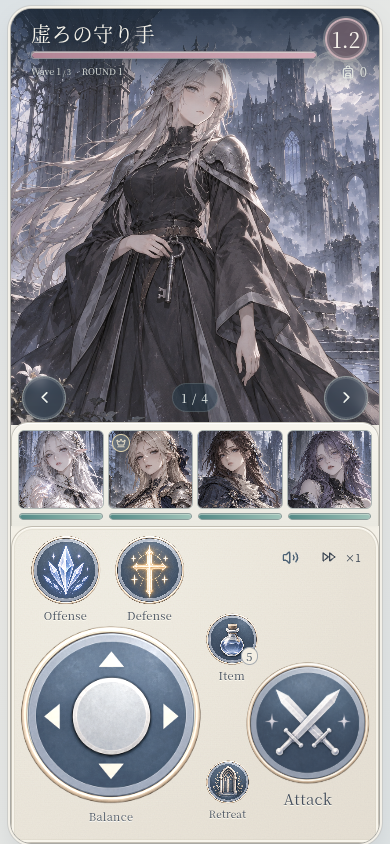
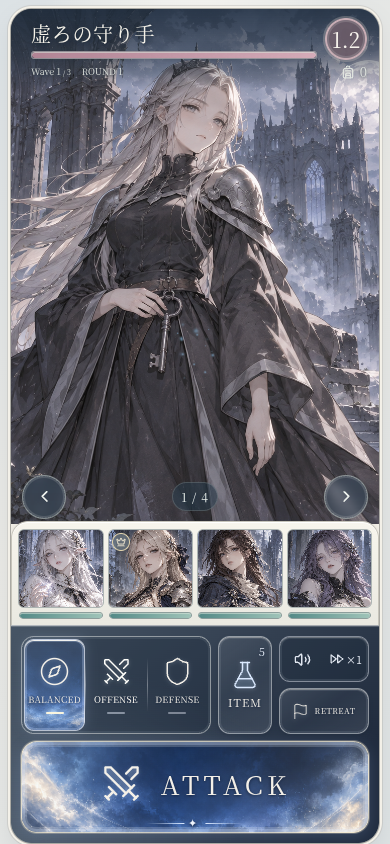
feat: redesign battle commands as moonlit glass palette

diff --git a/src/ui/battle-control-pad.css b/src/ui/battle-control-pad.css
@@ -1,54 +1,60 @@
+/* Moonlit glass and fine silver edges follow modern-command-palette.png. */
 .battle-layout .battle-control-pad {
-  position: relative;
   margin: 0;
-  padding: 8px 8px 20px;
-  border: 1px solid #c4bfb4;
-  border-radius: 22px 22px 0 0;
-  background: var(--paper-grain,none),radial-gradient(ellipse at 30% 10%,#faf7ee77,transparent 65%),linear-gradient(135deg,#f2eee4,#e8e2d6);
-  box-shadow: inset 0 1px 0 #fffdf7,inset 0 0 0 2px #f7f4eb,inset 0 0 0 3px #d7d1c466;
+  padding: 10px;
+  border-top: 1px solid #e2e4e5b3;
+  background: radial-gradient(ellipse at 0 100%,#9cabb64d,transparent 60%),linear-gradient(145deg,#475565,#202b3d 78%);
+  box-shadow: inset 0 1px 0 #ffffff30;
+  color: #f1f0e8;
 }
-.battle-control-pad__toolbar { position: absolute; z-index: 2; top: 8px; right: 8px; display: flex; justify-content: flex-end; align-items: center; min-height: 44px; padding: 0; }
-.battle-control-pad__toolbar .toolbar { gap: 2px; }
-.battle-control-pad__toolbar .button { min-height: 44px; min-width: 44px; padding: 5px 8px; border-color: transparent; background: transparent; box-shadow: none; font-size: 10px; }
-.battle-control-pad__board { position: relative; width: 100%; aspect-ratio: 1.22; }
-.battle-control-pad__strategies { display: contents; }
-.battle-layout .battle-control-pad .framed-control {
-  position: absolute;
-  display: block;
-  height: auto;
-  aspect-ratio: 1;
-  min-width: 44px;
+.battle-control-pad__board { display: grid; grid-template-columns: minmax(0,3fr) minmax(52px,.85fr) minmax(90px,1.1fr); gap: 7px; }
+.battle-control-pad__strategies { display: grid; grid-template-columns: repeat(3,minmax(0,1fr)); min-width: 0; padding: 2px; border: 1px solid #d2d5d59c; border-radius: 13px; background: #1723354d; box-shadow: inset 0 0 0 2px #dde5eb16; }
+.battle-layout .battle-control-pad .moon-command {
+  position: relative;
+  min-width: 0;
   min-height: 44px;
-  padding: 0;
-  border: 0;
-  border-radius: 50%;
-  background: transparent;
-  box-shadow: none;
-  color: #f6f2e9;
-  overflow: visible;
-  isolation: isolate;
-  transition: filter .16s,transform .16s;
+  padding: 8px 4px;
+  gap: 7px;
+  border: 1px solid #d5d9dc91;
+  border-radius: 12px;
+  background: linear-gradient(145deg,#e4e8ef17,#b2bec708 48%,#dbe1ea1c);
+  box-shadow: inset 0 0 0 2px #d9e0e91a,inset 0 1px 0 #fff7e654,0 2px 5px #101a2a33;
+  color: #f4f0e8;
+  font-family: var(--font-display);
+  font-weight: 400;
+  text-shadow: 0 1px 3px #15233d;
+  transition: filter .18s,box-shadow .18s;
 }
-.battle-layout .battle-control-pad .framed-control:hover:not(:disabled) { background: transparent; border: 0; box-shadow: none; filter: brightness(1.07); }
-.battle-layout .battle-control-pad .framed-control:active:not(:disabled) { transform: scale(.97); }
-.battle-layout .battle-control-pad .framed-control:disabled { opacity: .52; }
-.battle-layout .battle-control-pad .framed-control.is-selected { background: transparent; box-shadow: none; filter: brightness(1.08); }
-.battle-layout .battle-control-pad .framed-control.is-selected::after { content: ''; position: absolute; inset: 4%; border: 1px solid #f4f8e9bb; border-radius: 50%; pointer-events: none; }
-.battle-layout .battle-control-pad .framed-control > .atlas-icon { position: absolute; inset: 0; width: 100%; height: 100%; border-radius: 50%; pointer-events: none; z-index: -1; }
-.battle-control-pad .framed-control--balanced { width: 52%; left: 0; top: 31%; }
-.battle-control-pad .framed-control--aggressive { width: 20%; left: 3%; top: 0; }
-.battle-control-pad .framed-control--survival { width: 20%; left: 27%; top: 0; }
-.battle-control-pad .framed-control--advance { width: 35.5%; right: 0; top: 44%; }
-.battle-control-pad .framed-control--potion { width: 15%; left: 53%; top: 27%; }
-.battle-control-pad .framed-control--retreat { width: 9%; left: 53%; bottom: 18px; }
-.framed-control__label { position: absolute; left: 50%; top: calc(100% + 3px); transform: translateX(-50%); color: #444e5c; font-family: var(--font-display); font-size: clamp(11px,2.8vw,16px); font-weight: 400; line-height: 1.3; text-align: center; text-shadow: 0 1px 0 #fffdf2; white-space: nowrap; pointer-events: none; }
-.framed-control--advance .framed-control__label { font-size: clamp(15px,3.5vw,22px); }
-.framed-control--retreat .framed-control__label { font-size: 10px; }
-.framed-control__count { position: absolute; right: 0; bottom: 0; min-width: 1.55em; padding: 2px 4px; border-radius: 12px; background: #f3eee3; color: #435160; border: 1px solid #a6abb0; font-size: 11px; line-height: 1.1; font-family: var(--font-display); text-shadow: none; }
+.battle-layout .battle-control-pad .moon-command:hover:not(:disabled) { background-color: #9fb9d326; filter: brightness(1.15); }
+.battle-layout .battle-control-pad .moon-command:active:not(:disabled) { filter: brightness(.95); transform: none; }
+.battle-layout .battle-control-pad .moon-command:focus-visible { outline: 2px solid #f8e8be; outline-offset: -3px; }
+.battle-layout .battle-control-pad .moon-command:disabled { opacity: .45; }
+.battle-layout .battle-control-pad .moon-command > svg { flex-shrink: 0; stroke-width: 1.15; filter: drop-shadow(0 1px 2px #d7e8ff45); }
+.battle-layout .battle-control-pad .moon-command--strategy { flex-direction: column; gap: 6px; min-height: 92px; border-color: transparent; border-radius: 10px; background: transparent; box-shadow: none; font-size: 9px; letter-spacing: .035em; padding-inline: 1px; }
+.moon-command--strategy + .moon-command--strategy::before { content: ''; position: absolute; left: -1px; top: 20%; bottom: 20%; width: 1px; background: linear-gradient(transparent,#d2d5da70,transparent); }
+.battle-layout .battle-control-pad .moon-command--strategy > svg { width: 31px; height: 31px; }
+.battle-layout .battle-control-pad .moon-command.is-selected { border-color: #e3e8f2bd; background: linear-gradient(145deg,#b8d3f34d,#6e94c36b),var(--command-moonlight) center / cover; box-shadow: inset 0 0 0 2px #cde1ff42,inset 0 1px 0 #fff8e9,0 0 12px #bdd6ff33; }
+.moon-command__marker { width: 18px; height: 2px; background: #c8cdda85; border-radius: 2px; }
+.is-selected > .moon-command__marker { background: #faf5df; box-shadow: 0 0 6px #d3e9ff; }
+.battle-layout .battle-control-pad .moon-command--potion { display: flex; flex-direction: column; align-items: center; justify-content: center; gap: 4px; font-size: 11px; letter-spacing: .1em; }
+.battle-layout .battle-control-pad .moon-command--potion > svg { width: 30px; height: 30px; color: #dceaff; fill: #9fc8f126; }
+.moon-command__count { position: absolute; right: 6px; top: 6px; font-size: 11px; letter-spacing: 0; color: #dee6f0; }
+.battle-control-pad__utilities { display: flex; flex-direction: column; gap: 6px; min-width: 0; }
+.battle-control-pad__toolbar { display: flex; flex-wrap: wrap; justify-content: center; align-items: center; border: 1px solid #cbd0db91; border-radius: 11px; background: #14203145; box-shadow: inset 0 0 0 2px #d9e0e91a,inset 0 1px 0 #fff7e640; }
+.battle-control-pad__toolbar .button { flex: 1; min-width: 44px; min-height: 44px; padding: 3px; gap: 2px; border: 0; border-radius: 8px; background: transparent; box-shadow: none; color: #e0e6ef; font-size: 10px; }
+.battle-control-pad__toolbar .button:hover:not(:disabled) { background: #b8d2f02b; }
+.battle-layout .battle-control-pad .moon-command--retreat { flex: 1; gap: 5px; padding: 5px 2px; font-size: 8px; letter-spacing: .06em; }
+.battle-layout .battle-control-pad .moon-command--retreat > svg { width: 17px; height: 17px; }
+.battle-layout .battle-control-pad .moon-command--advance { grid-column: 1 / -1; min-height: 92px; overflow: hidden; border-radius: 16px; border-color: #f0e7cdcc; gap: 18px; padding: 15px 10px 22px; background: linear-gradient(100deg,#dbe3eb33,#7c9fd21a 45%,#eee3c830),var(--command-moonlight) center 58% / cover; box-shadow: inset 0 0 0 3px #d5e5ff40,inset 0 0 0 5px #e3e7ec38,0 0 0 1px #ebdfc94d,0 4px 17px #9dbff833; font-size: clamp(26px,6vw,40px); letter-spacing: .16em; line-height: 1.2; }
+.battle-layout .battle-control-pad .moon-command--advance > svg { width: 43px; height: 43px; stroke-width: 1.3; fill: #c9ddf42b; }
+.moon-command__flourish { position: absolute; bottom: 4px; left: 50%; transform: translateX(-50%); font-size: 11px; line-height: 1; color: #eff4fc; }
+.moon-command__flourish::before,.moon-command__flourish::after { content: ''; position: absolute; top: 50%; width: 38px; height: 1px; background: linear-gradient(90deg,transparent,#d9e8ff); }
+.moon-command__flourish::before { right: 17px; }
+.moon-command__flourish::after { left: 17px; transform: rotate(180deg); }
 @media (max-width: 360px) {
-  .battle-layout .battle-control-pad { padding-inline: 5px; padding-bottom: 20px; }
-  .battle-control-pad__toolbar .button { padding-inline: 5px; }
+  .battle-layout .battle-control-pad { padding: 7px 5px; }
+  .battle-control-pad__board { grid-template-columns: minmax(0,3fr) 48px 90px; gap: 4px; }
+  .battle-layout .battle-control-pad .moon-command--strategy { font-size: 8px; letter-spacing: 0; }
+  .battle-layout .battle-control-pad .moon-command--strategy > svg { width: 27px; height: 27px; }
 }
-@media (prefers-reduced-motion: reduce) {
-  .battle-layout .battle-control-pad .framed-control { transition: none; }
-}
+@media (prefers-reduced-motion: reduce) { .battle-layout .battle-control-pad .moon-command { transition: none; } }

diff --git a/src/ui/BattleControlPad.tsx b/src/ui/BattleControlPad.tsx
@@ -1,7 +1,8 @@
-import type { ReactNode } from 'react';
+import type { CSSProperties, ReactNode } from 'react';
+import { Compass, Flag, FlaskConical, Shield, Swords } from 'lucide-react';
 import type { Strategy } from '../domain/types';
+import { assetPath } from '../content';
 import { Button } from './index';
-import { AtlasIcon } from './AtlasIcon';
 import './battle-control-pad.css';
 
 export interface BattleControlPadProps {
@@ -20,19 +21,32 @@ export interface BattleControlPadProps {
   toolbar: ReactNode;
 }
 
-/** Complete illustrated controls share one proportional, reference-based board. */
+const strategies = [
+  { id: 'balanced', label: 'BALANCED', name: '均衡', icon: Compass },
+  { id: 'aggressive', label: 'OFFENSE', name: '攻撃重視', icon: Swords },
+  { id: 'survival', label: 'DEFENSE', name: '生存重視', icon: Shield },
+] as const;
+
+/** One moonlit glass surface for strategy, supplies and round progression. */
 export function BattleControlPad(p: BattleControlPadProps) {
-  return <section className="battle-control-pad" aria-label="戦闘操作">
-    <div className="battle-control-pad__toolbar">{p.toolbar}</div>
+  const style = { '--command-moonlight': `url("${new URL(assetPath('command-moonlight'), document.baseURI).href}")` } as CSSProperties;
+  return <section className="battle-control-pad" aria-label="戦闘操作" style={style}>
     <div className="battle-control-pad__board">
       <div className="battle-control-pad__strategies" role="group" aria-label="作戦を選ぶ">
-        <Button variant="secondary" className="framed-control framed-control--balanced" aria-label="均衡" title="均衡" selected={p.strategy === 'balanced'} disabled={p.strategyDisabled} onClick={() => p.onStrategy('balanced')}><AtlasIcon asset="control-frames" frame={0} /><span className="framed-control__label">Balance</span></Button>
-        <Button variant="secondary" className="framed-control framed-control--aggressive" aria-label="攻撃重視" title="攻撃重視" selected={p.strategy === 'aggressive'} disabled={p.strategyDisabled} onClick={() => p.onStrategy('aggressive')}><AtlasIcon asset="control-frames" frame={1} /><span className="framed-control__label">Offense</span></Button>
-        <Button variant="secondary" className="framed-control framed-control--survival" aria-label="生存重視" title="生存重視" selected={p.strategy === 'survival'} disabled={p.strategyDisabled} onClick={() => p.onStrategy('survival')}><AtlasIcon asset="control-frames" frame={2} /><span className="framed-control__label">Defense</span></Button>
+        {strategies.map(({ id, label, name, icon: Icon }) => <Button key={id} variant="secondary" className="moon-command moon-command--strategy" aria-label={name} title={name} selected={p.strategy === id} disabled={p.strategyDisabled} onClick={() => p.onStrategy(id)}>
+          <Icon aria-hidden="true" /><span>{label}</span><span className="moon-command__marker" aria-hidden="true" />
+        </Button>)}
       </div>
-      <Button variant="secondary" className="framed-control framed-control--potion" aria-label={`回復薬 ${p.potionCount}`} title="回復薬" disabled={p.potionDisabled} selected={p.potionSelected} onClick={p.onPotion}><AtlasIcon asset="control-frames" frame={4} /><span className="framed-control__label">Item</span><span className="framed-control__count">{p.potionCount}</span></Button>
-      <Button className="framed-control framed-control--advance" aria-label={p.advancing ? '次の演出へ' : 'ラウンドを進める'} disabled={p.advanceDisabled} onClick={p.onAdvance}><AtlasIcon asset="control-frames" frame={3} /><span className="framed-control__label">{p.advancing ? 'Next' : 'Attack'}</span></Button>
-      <Button variant="icon" className="framed-control framed-control--retreat" aria-label="撤退" title="撤退" disabled={p.retreatDisabled} onClick={p.onRetreat}><AtlasIcon asset="control-frames" frame={5} /><span className="framed-control__label">Retreat</span></Button>
+      <Button variant="secondary" className="moon-command moon-command--potion" aria-label={`回復薬 ${p.potionCount}`} title="回復薬" disabled={p.potionDisabled} selected={p.potionSelected} onClick={p.onPotion}>
+        <FlaskConical aria-hidden="true" /><span>ITEM</span><span className="moon-command__count">{p.potionCount}</span>
+      </Button>
+      <div className="battle-control-pad__utilities">
+        <div className="battle-control-pad__toolbar">{p.toolbar}</div>
+        <Button variant="secondary" className="moon-command moon-command--retreat" aria-label="撤退" title="撤退" disabled={p.retreatDisabled} onClick={p.onRetreat}><Flag aria-hidden="true" /><span>RETREAT</span></Button>
+      </div>
+      <Button className="moon-command moon-command--advance" aria-label={p.advancing ? '次の演出へ' : 'ラウンドを進める'} disabled={p.advanceDisabled} onClick={p.onAdvance}>
+        <Swords aria-hidden="true" /><span>{p.advancing ? 'NEXT' : 'ATTACK'}</span><span className="moon-command__flourish" aria-hidden="true">✦</span>
+      </Button>
     </div>
   </section>;
 }

diff --git a/src/content/index.ts b/src/content/index.ts
@@ -70,6 +70,7 @@ const encounterAssets: AssetDef[] = characters.flatMap(char => char.encounterArt
   width: 1536, height: 1024, anchor: '50% 50%', rights: 'Original AI-generated complete encounter painting for this project.',
 }] : []);
 const menuAssets: AssetDef[] = [
+  { id: 'command-moonlight', path: 'art/command-moonlight.png', kind: 'background', width: 1536, height: 1024, anchor: '50% 50%', rights: 'Original AI-generated moonlit command surface for this project.' },
   { id: 'menu-logos', path: 'art/menu-logos.png', kind: 'icon', width: 1536, height: 1024, anchor: '50% 50%', rights: 'Original AI-generated monochrome menu crest atlas for this project.' },
   { id: 'control-frames', path: 'art/control-frames.png', kind: 'icon', width: 1536, height: 1024, anchor: '50% 50%', rights: 'Original AI-generated complete framed control atlas for this project.' },
   { id: 'menu-atlas', path: 'art/menu-atlas.png', kind: 'icon', width: 1536, height: 1024, anchor: '50% 50%', rights: 'Original AI-generated painted UI icon atlas for this project.' },

diff --git a/docs/implementation.md b/docs/implementation.md
@@ -85,9 +85,11 @@ npm run release
 
 ## 現在の画面とアセット
 
-ホームは少女と狼の原画、生成した3列×2段のメニュー、探索入口、下端ナビを同じ額縁に収めます。メニューは単色のロゴ原画を使い、ホーム内ナビも単色へ揃えます。戦闘用の生成ボタンは結晶や聖光の色を保ちます。モバイルの残る画面高は原画・敵ステージへ配分し、枠外のpaddingや不要なスクロールを作りません。
+ホームは少女と狼の原画、生成した3列×2段のメニュー、探索入口、下端ナビを同じ額縁に収めます。メニューは単色のロゴ原画を使い、ホーム内ナビも単色へ揃えます。戦闘用パレットは月光色の半透明パネルと銀の細枠を使います。モバイルの残る画面高は原画・敵ステージへ配分し、枠外のpaddingや不要なスクロールを作りません。
 
-menu-logos.pngは人物画ではなく、少女の横顔・狼・カバン・結晶・開いた本・羅針盤を単色の紋章として生成した透過原画です。control-frames.pngは銀縁・青灰色の円盤・中央の絵を一体生成したボタン6種です。共通AtlasIconが台帳参照と表示範囲を管理し、生成時の配置差は元画像を加工せずCSSの参照座標で補正します。BattleControlPadが左の大型パッド、左上の結晶と十字、右下の剣、間の薬瓶を一括配置します。大型パッドは均衡、結晶は攻撃重視、十字は生存重視の作戦選択です。移動や直接攻撃の機能は追加しません。パーティ帯は顔とHPのみ、操作名はアクセシブル名・ツールチップで維持します。ボタンの下にはBalance・Offense・Defense・Item・Attack/Next・Retreatの英語ラベルを置き、音量・速度は右上にまとめます。ホーム下部のナビは同じ線幅のシンプルなSVGアイコンで統一します。旧command-atlas.pngは町のナビの小さな図案にのみ使用します。
+menu-logos.pngは少女の横顔・狼・カバン・結晶・開いた本・羅針盤を単色の紋章として生成した透過原画です。共通AtlasIconがメニューの台帳参照と表示範囲を管理します。ホーム下部のナビは同じ線幅のシンプルなSVGアイコンで統一します。
+
+戦闘の下部は保存した新しい見本 modern-command-palette.png に合わせ、BattleControlPad内で作戦3種を横並びの選択パネル、ITEMを小カード、音量・速度・RETREATを補助操作、ATTACK/NEXTを全幅の大きな進行ボタンとして構成します。方向パッドと丸いボタンは使用しません。新規生成のcommand-moonlight.pngを選択状態と進行ボタンに使い、細い銀枠・半透明の青灰色面・共通線画シンボルを重ねます。英語ラベルは実テキスト、操作名・選択状態・無効状態は共通Buttonで維持します。ATTACKは既存のラウンド進行、NEXTは演出送りで、戦闘ロジックは変更しません。パーティ帯は顔とHPのみです。
 
 敵6種は、切り抜きの立ち絵と別背景を合成する方式を廃止し、1536×1024の背景込みの一枚絵を使います。人物は女性のみで、自然な顔・手と読みやすい衣装の面を優先します。CharacterDef.encounterArtIdで戦闘用の絵を指定し、公開ダンジョンの敵に未登録・不正なシーンがある場合はコンテンツ検査で拒否します。敵の図鑑・仲間カードも同じ新原画を参照し、旧透過素材を再表示しません。
 
